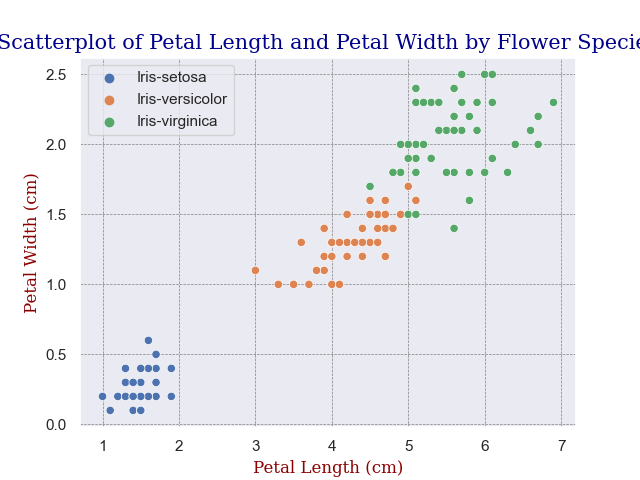
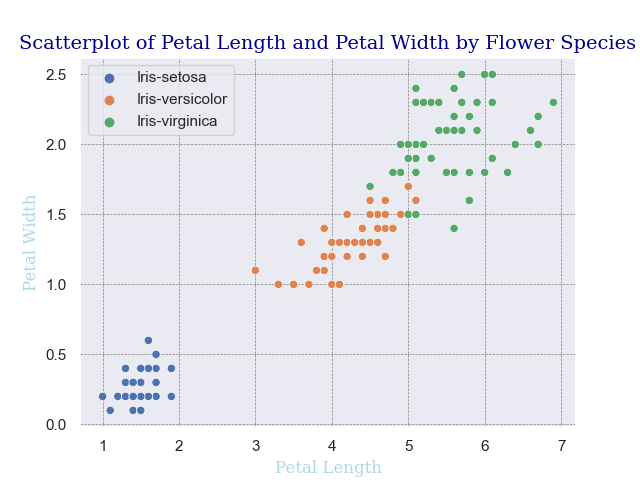
Creation of scatterplot function and change of font1 sizing due to fitting on outputted png files

Changed region(s): [[0.0, 0.0625, 1.0, 0.125], [0.4062, 0.9375, 0.625, 1.0], [0.0312, 0.3438, 0.0625, 0.6562]]

diff --git a/analysis.py b/analysis.py
@@ -30,8 +30,8 @@ print("Below shows a summary of each of the variables grouped by the flower clas
 print(irisdata.groupby(['class']).describe(), file = iris_summary_file) # [3] group data by flower class and summarize
 
 
-font1 = {'family':'serif','color':'darkblue','size':15} 
-font2 = {'family':'serif','color':'darkred','size':12} 
+font1 = {'family':'serif','color':'darkblue','size':14} 
+font2 = {'family':'serif','color':'lightblue','size':12} 
 
 
 #For plotting the data I will group it into each flower class
@@ -44,9 +44,6 @@ sns.set(style="darkgrid") # sns.set_theme sts the backround colour of the grid
 # Histograms of Data
 # https://datavizpyr.com/overlapping-histograms-with-matplotlib-in-python/ [13]
 #sepal_length_histogram, axes = plt.subplots(figsize=(10,8))
-
-
-
 def histogram_plot(p1, p2, p3): # I Will create a histogram 
     sns.histplot(data = iris_virginica[p1], kde = False, label = 'Iris virginica', color = 'red') # https://www.python-graph-gallery.com/25-histogram-with-several-variables-seaborn [14]
     sns.histplot(data = iris_versicolor[p1], kde = False, label = 'Iris versicolor', color = 'skyblue')
@@ -66,56 +63,25 @@ def histograms():
     histogram_plot('petalwidth', "Petal Width", "petal_width_histogram")
 
 
-#histogram_plot('sepallength', "Sepal Length", "sepal_length_histogram")
-
-
 
 # https://seaborn.pydata.org/generated/seaborn.scatterplot.html [15]
-def scatterplot_petal():
-    sns.scatterplot(data = irisdata, x = "petallength", y = "petalwidth", hue = "class", palette = "deep")
-    plt.xlabel("Petal Length (cm)", fontdict = font2)
-    plt.ylabel("Petal Width (cm)", fontdict = font2)
-    plt.title("Scatterplot of Petal Length and Petal Width by Flower Species", fontdict = font1) 
+def scatterplot_petal(p1, p2, p3, p4, p5):
+    sns.scatterplot(data = irisdata, x = p1, y = p2, hue = "class", palette = "deep")
+    plt.xlabel(p3, fontdict = font2)
+    plt.ylabel(p4, fontdict = font2)
+    plt.title("Scatterplot of " + p3 +" and " + p4 + " by Flower Species", fontdict = font1) 
     plt.grid(color = 'grey', ls = '--', lw = 0.5) 
     plt.legend(loc='upper left')
-    plt.savefig("scatterplot_petal")
+    plt.savefig(p5)
     plt.show()
 
-def scatterplot_sepal():
-    sns.scatterplot(data = irisdata, x = "sepallength", y = "sepalwidth", hue = "class", palette = "deep")
-    plt.xlabel("Sepal Length (cm)", fontdict = font2)
-    plt.ylabel("Sepal Width (cm)", fontdict = font2)
-    plt.title("Scatterplot of Sepal Length and Sepal Width by Flower Species", fontdict = font1) 
-    plt.grid(color = 'grey', ls = '--', lw = 0.5) 
-    plt.legend(loc='upper left')
-    plt.savefig("scatterplot_sepal")
-    plt.show()
+def scatterplots():
+    scatterplot_petal("petallength", "petalwidth", "Petal Length", "Petal Width", "scatterplot_petal")
+    scatterplot_petal("sepallength", "sepalwidth", "Sepal Length", "Sepal Width", "scatterplot_sepal")
+    scatterplot_petal("petallength", "sepallength", "Petal Length", "Sepal Length", "scatterplot_petallength_sepallength")
+    scatterplot_petal("petalwidth", "sepalwidth", "Petal Width", "Sepal Width", "scatterplot_petalwidth_sepalwidth")
 
-def scatterplot_petallength_sepallength():
-    sns.scatterplot(data = irisdata, x = "petallength", y = "sepallength", hue = "class", palette = "deep")
-    plt.xlabel("Petal Length (cm)", fontdict = font2)
-    plt.ylabel("Sepal Length (cm)", fontdict = font2)
-    plt.title("Scatterplot of Petal Length and Sepal Length by Flower Species", fontdict = font1) 
-    plt.grid(color = 'grey', ls = '--', lw = 0.5) 
-    plt.legend(loc='upper left')
-    plt.savefig("scatterplot_petallength_sepallength")
-    plt.show()
 
-def scatterplot_petalwidth_sepalwidth():
-    sns.scatterplot(data = irisdata, x = "petalwidth", y = "sepalwidth", hue = "class", palette = "deep")
-    plt.xlabel("Petal Width (cm)", fontdict = font2)
-    plt.ylabel("Sepal Width (cm)", fontdict = font2)
-    plt.title("Scatterplot of Petal Width and Sepal Width by Flower Species", fontdict = font1) 
-    plt.grid(color = 'grey', ls = '--', lw = 0.5) 
-    plt.legend(loc='upper right')
-    plt.savefig("scatterplot_petalwidth_sepalwidth")
-    plt.show()
-
-# executing the fuctions to plot the scatterplots
-scatterplot_petal()
-scatterplot_sepal()
-scatterplot_petallength_sepallength()
-scatterplot_petalwidth_sepalwidth()
 
 # Pair plots were used in order to compare scatterplots of all teh possibloe varaibles
 # https://towardsdatascience.com/visualizing-data-with-pair-plots-in-python-f228cf529166 [16]
@@ -124,6 +90,9 @@ def iris_pairplot():
     plt.savefig("iris_pairplot")
     plt.show()
 
+#Executing the functions
+histograms()
+scatterplots()
 iris_pairplot()
 
 # https://datahub.io/machine-learning/iris data set source on 17/04/2021
